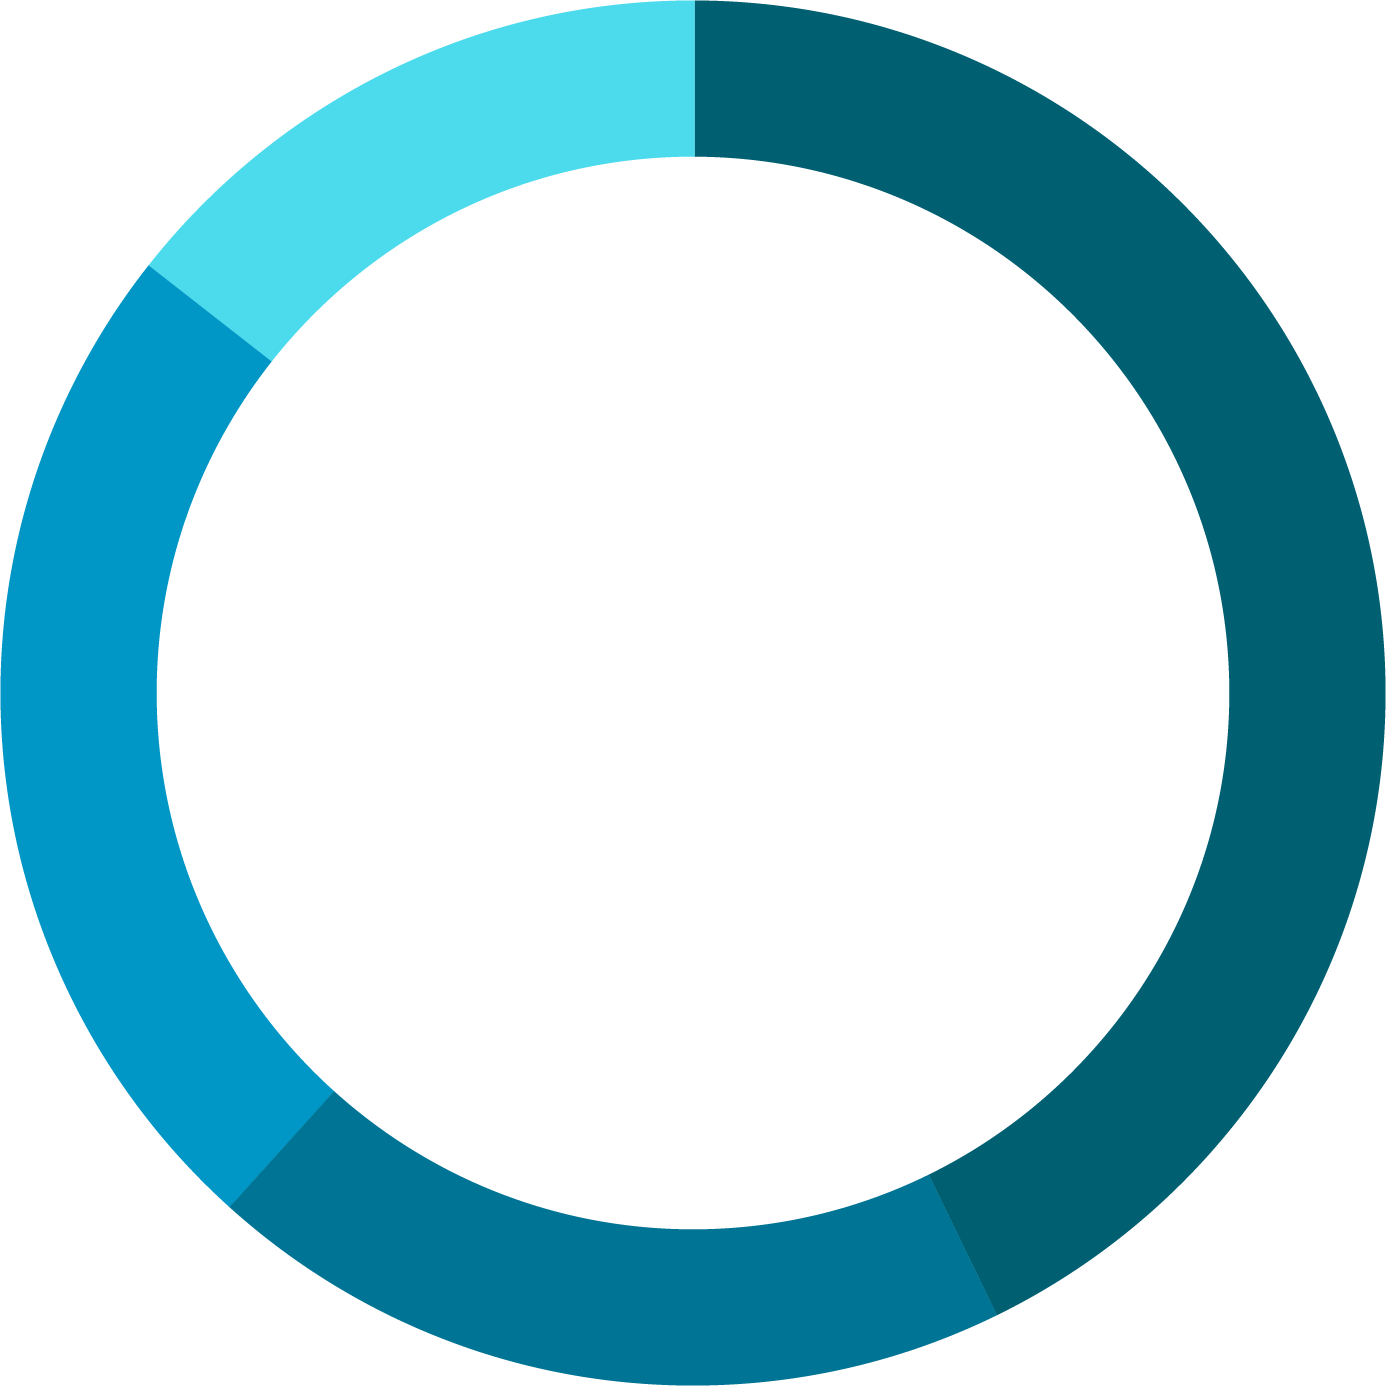
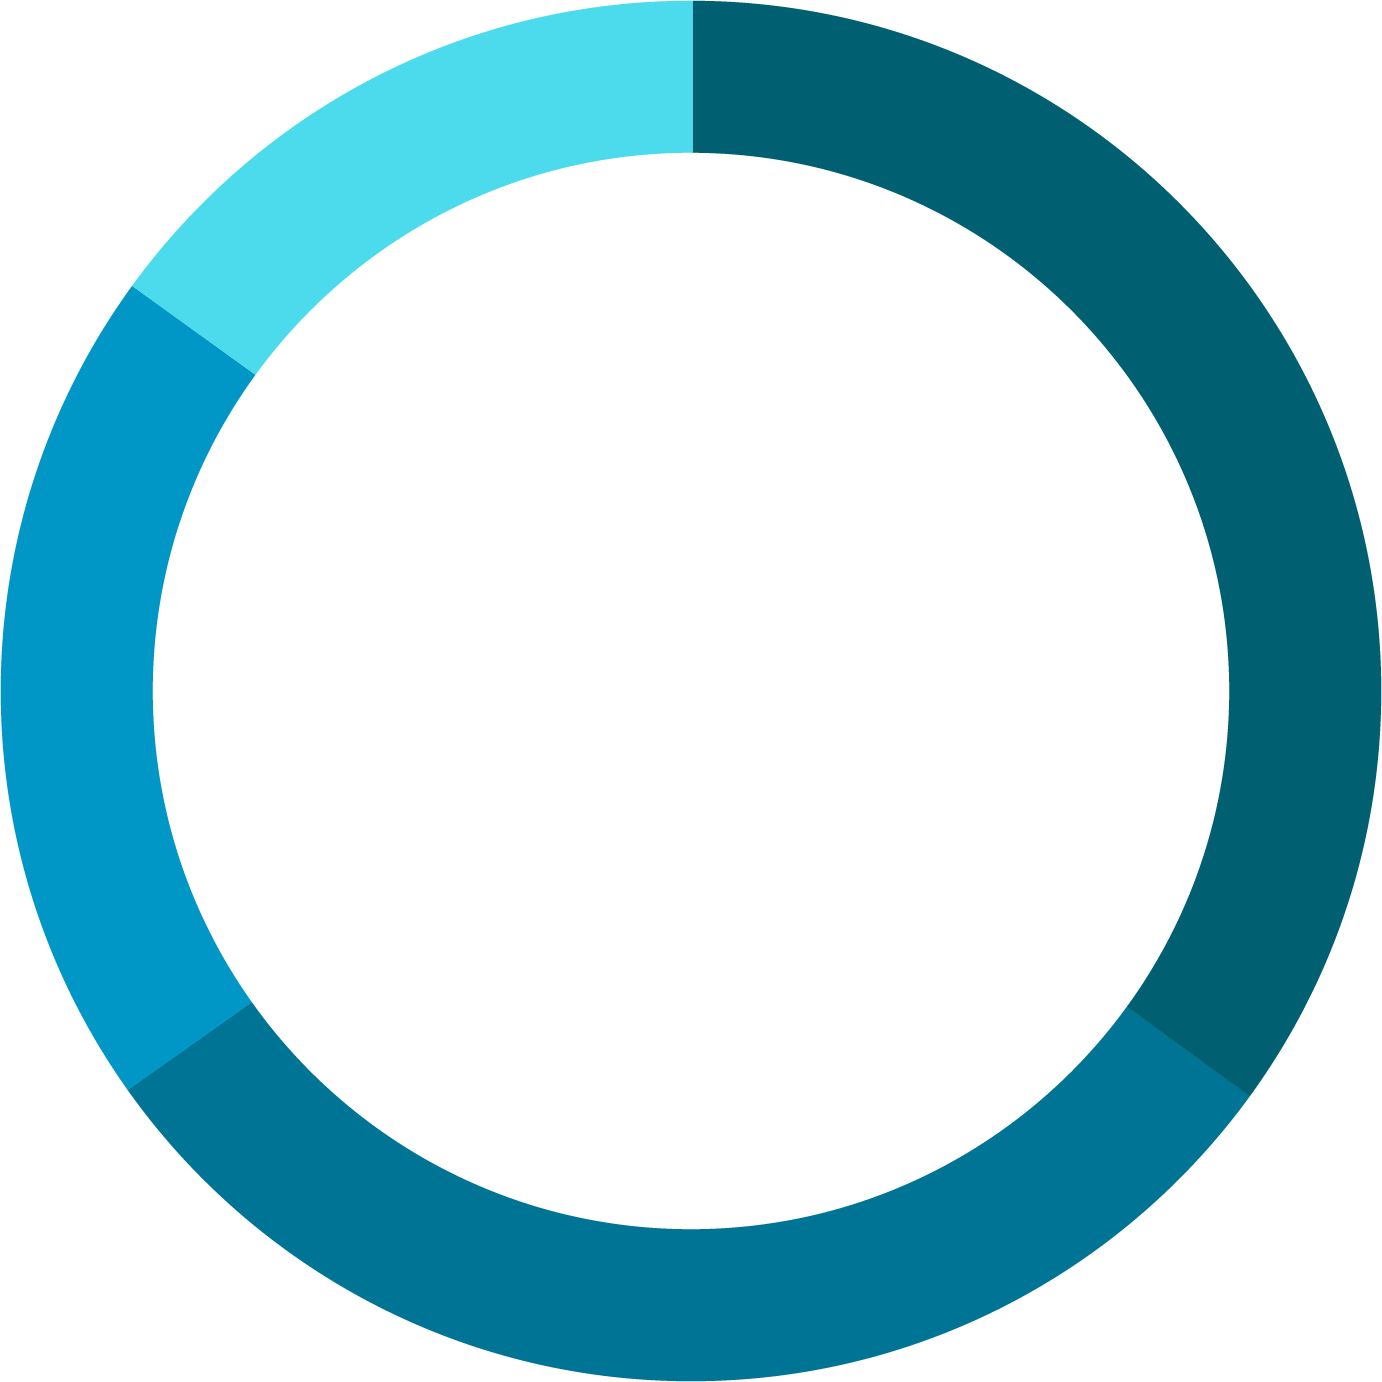
Distribution Edits

diff --git a/ico-site/src/app/distribution/distribution.component.html b/ico-site/src/app/distribution/distribution.component.html
@@ -8,20 +8,20 @@
           <div class="value">20%</div>
           <div class="label">{{ 'DISTRIBUTION.Reserve Fund' | translate }}</div>
         </div>
+        <div class="pie-stat community">
+          <div class="value">25%</div>
+          <div class="label">{{ 'DISTRIBUTION.Community' | translate }}</div>
+        </div>
         <div class="pie-stat foundation">
-          <div class="value">20%</div>
+          <div class="value">15%</div>
           <div class="label">{{ 'DISTRIBUTION.Foundation' | translate }}</div>
         </div>
         <div class="pie-stat sales">
           <div class="value">25%</div>
           <div class="label">{{ 'DISTRIBUTION.Token Sales' | translate }}</div>
         </div>
-        <div class="pie-stat community">
-          <div class="value">15%</div>
-          <div class="label">{{ 'DISTRIBUTION.Community' | translate }}</div>
-        </div>
         <div class="pie-stat team">
-          <div class="value">20%</div>
+          <div class="value">15%</div>
           <div class="label">{{ 'DISTRIBUTION.Team' | translate }}</div>
         </div>
       </div>
@@ -36,9 +36,15 @@
     			</div>
     		</li>
         <li>
+          <div class="bar community bar-4"></div>
+          <div class="desc">
+            <span class="label">{{ 'DISTRIBUTION.Community' | translate }}</span>&nbsp;<span class="value">25%</span>
+          </div>
+        </li>
+        <li>
           <div class="bar foundation bar-2"></div>
           <div class="desc">
-            <span class="label">{{ 'DISTRIBUTION.Foundation' | translate }}</span>&nbsp;<span class="value">20%</span>
+            <span class="label">{{ 'DISTRIBUTION.Foundation' | translate }}</span>&nbsp;<span class="value">15%</span>
           </div>
         </li>
     		<li>
@@ -48,15 +54,9 @@
     			</div>
     		</li>
     		<li>
-    			<div class="bar community bar-4"></div>
-    			<div class="desc">
-    				<span class="label">{{ 'DISTRIBUTION.Community' | translate }}</span>&nbsp;<span class="value">15%</span>
-    			</div>
-    		</li>
-    		<li>
     			<div class="bar team bar-5"></div>
     			<div class="desc">
-    				<span class="label">{{ 'DISTRIBUTION.Team' | translate }}</span>&nbsp;<span class="value">20%</span>
+    				<span class="label">{{ 'DISTRIBUTION.Team' | translate }}</span>&nbsp;<span class="value">15%</span>
     			</div>
     		</li>
     	</ul>
@@ -70,16 +70,16 @@
         <img src="../assets/img/distribution/FinDist.png">
         <div class="pie-title">{{ 'DISTRIBUTION.FINANCE' | translate }}<br>{{ 'DISTRIBUTION.DISTRIBUTION' | translate }}</div>
         <div class="pie-stat devops">
-          <div class="value">45%</div>
+          <div class="value">35%</div>
           <div class="long label">{{ 'DISTRIBUTION.Platform Development' | translate }}<br>{{ 'DISTRIBUTION.Operations' | translate }}</div>
           <div class="short label">{{ 'DISTRIBUTION.Platform Dev' | translate }}<br>{{ 'DISTRIBUTION.Ops' | translate }}</div>
         </div>
         <div class="pie-stat marketing">
-          <div class="value">20%</div>
+          <div class="value">30%</div>
           <div class="label">{{ 'DISTRIBUTION.Marketing' | translate }}</div>
         </div>
         <div class="pie-stat rnd">
-          <div class="value">25%</div>
+        <div class="value">20%</div>
           <div class="label">{{ 'DISTRIBUTION.R&D' | translate }}</div>
         </div>
         <div class="pie-stat others">
@@ -94,19 +94,19 @@
         <li>
           <div class="bar devops bar-1"></div>
           <div class="desc">
-            <span class="label">{{ 'DISTRIBUTION.Platform Development' | translate }}{{ 'DISTRIBUTION.Operations' | translate }}</span>&nbsp;<span class="value">45%</span>
+            <span class="label">{{ 'DISTRIBUTION.Platform Development' | translate }}{{ 'DISTRIBUTION.Operations' | translate }}</span>&nbsp;<span class="value">35%</span>
           </div>
         </li>
         <li>
           <div class="bar marketing bar-2"></div>
           <div class="desc">
-            <span class="label">{{ 'DISTRIBUTION.Marketing' | translate }}</span>&nbsp;<span class="value">20%</span>
+            <span class="label">{{ 'DISTRIBUTION.Marketing' | translate }}</span>&nbsp;<span class="value">30%</span>
           </div>
         </li>
         <li>
           <div class="bar rnd bar-3"></div>
           <div class="desc">
-            <span class="label">{{ 'DISTRIBUTION.Research Development' | translate }}</span>&nbsp;<span class="value">25%</span>
+            <span class="label">{{ 'DISTRIBUTION.Research Development' | translate }}</span>&nbsp;<span class="value">20%</span>
           </div>
         </li>
         <li>

diff --git a/ico-site/src/app/distribution/distribution.component.css b/ico-site/src/app/distribution/distribution.component.css
@@ -109,32 +109,32 @@
     background-color: #8de6f5;
 }
 
-.bar-stats.display .bar.sales{
-    width: 38.88888889%;
-}
-
+.bar-stats.display .bar.sales,
 .bar-stats.display .bar.community{
-    width: 23.33333333%;
+    width: 35.7142857142%;
 }
 
-.bar-stats.display .bar{
-    width: 31.111111%;
+
+.bar-stats.display .bar.reserve{
+    width: 28.5714285714%;
+}
+
+.bar-stats.display .bar.team,
+.bar-stats.display .bar.foundation,
+.bar-stats.display .bar.others{
+    width: 21.4285714286%;
 }
 
 .bar-stats.display .bar.devops{
-    width: 70%;
+    width: 50%;
 }
 
 .bar-stats.display .bar.marketing{
-    width: 38.888888888888889%;
+    width: 42.8571428571%;
 }
 
 .bar-stats.display .bar.rnd{
-    width: 31.11111111111%;
-}
-
-.bar-stats.display .bar.others{
-    width: 23.333333333%;
+    width: 28.5714285714%;
 }
 
 .desc{
@@ -162,33 +162,40 @@
     max-height: 500px;
 }
 
+.pie-stat{
+    -webkit-transition: all 0.3s ease-out;
+    -moz-transition: all 0.3s ease-out;
+    -o-transition: all 0.3s ease-out;
+    transition: all 0.3s ease-out;
+}
+
 .pie-stat.reserve{
-    top: 3%;
-    right: -9%;
+    top: 5%;
+    right: 2%;
 }
 
 .pie-stat.foundation{
-    top: 65%;
-    right: -15%;
+    bottom: -19%;
+    left: 41%;
 }
 
 .pie-stat.sales{
-    bottom: -15%;
-    left: 40%;
+    bottom: 38%;
+    left: -5%;
 }
 
 .pie-stat.community{
-    top: 55%;
-    left: -9%;
+    top: 74%;
+    right: -4%;
 }
 
 .pie-stat.team{
-    top: 2%;
-    left: 6%;
+    top: -9%;
+    left: 17%;
 }
 
 .pie-stat.devops{
-    top: 48%;
+    top: 20%;
     right: -30%;
 }
 
@@ -199,12 +206,16 @@
 
 .pie-stat.rnd{
     top: 48%;
-    left: -15%;
+    left: -7%;
 }
 
 .pie-stat.others{
     top: -1%;
     left: 5%;
+}
+
+.long.label{
+    line-height: 1.2em;
 }
 
 .short.label{
@@ -214,31 +225,27 @@
 @media(min-width: 1440px){
 
     .pie-stat.devops{
-        top: 48%;
+        top: 20%;
         right: -26%;
     }
 
 }
 
-@media(min-width: 1540px){
+@media(min-width: 1560px){
     .pie-stat.devops{
-        top: 48%;
-        right: -20%;
+        top: 20%;
+        right: -19%;
     }
 
     .pie-stat.rnd{
         top: 48%;
         left: -2%;
     }
+}
 
-    .pie-stat.foundation{
-        top: 65%;
-        right: -5%;
-    }
-
-    .pie-stat.reserve{
-        top: 3%;
-        right: -2%;
+@media(max-width: 1440px){
+    .pie-stat.sales{
+        left: -12%;
     }
 }
 
@@ -249,11 +256,6 @@
 
     .pie-stat.devops{
         right: -33%;
-    }
-
-    .pie-stat.sales{
-        bottom: -22%;
-        left: 40%;
     }
 
     .pie-stat.marketing{
@@ -269,6 +271,31 @@
 
     .pie-stat.devops{
         right: -50%;
+    }
+
+    .pie-stat.reserve{
+        top: -5%;
+        right: -1%;
+    }
+
+    .pie-stat.foundation{
+        bottom: -24%;
+        left: 35%;
+    }
+
+    .pie-stat.sales{
+        bottom: 34%;
+        left: -19%;
+    }
+
+    .pie-stat.community{
+        top: 62%;
+        right: -16%;
+    }
+
+    .pie-stat.team{
+        top: -12%;
+        left: 10%;
     }
 
 }
@@ -289,7 +316,7 @@
     }
 
     .pie-stat.devops{
-        top: 44%;
+        top: 6%;
         right: -16%;
     }
 
@@ -308,6 +335,10 @@
         display: block;
         line-height: 1em;
     }
+
+    .pie-stat.devops{
+        right: -10%;
+    }
 }
 
 @media(max-width: 500px){
@@ -322,7 +353,7 @@
     }
 
     .chart{
-        padding: 2em;
+        padding: 1em;
     }
 }
 
@@ -343,5 +374,20 @@
         height: auto;
         max-height: auto;
         width: 100%;
+    }
+}
+
+@media(max-width: 426px){
+    .pie-stat.devops{
+        right: -27%;
+    }
+
+    .pie-stat.marketing{
+        bottom: -22%;
+    }
+
+    .pie-stat.others{
+        top: -3%;
+        left: -1%;
     }
 }

diff --git a/ico-site/src/app/logos/logos.component.html b/ico-site/src/app/logos/logos.component.html
@@ -1,5 +1,5 @@
 <div class="container-fluid">
-  <h1 class="title">Cornerstone Investors</h1>
+  <h1 class="title">Cornerstone Investor</h1>
   <div class="logo-row">
     <div *ngFor="let logo of logos.cornerstone">
       <a *ngIf="logo.link != '' ; else img_only" href="{{ logo.link }}" target="_blank">
